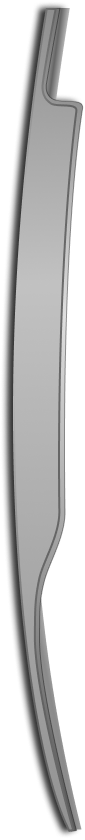
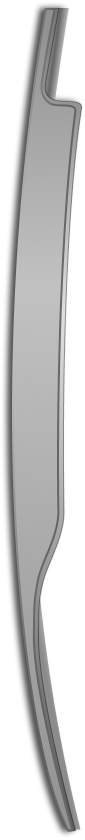
Added remaining carbon themed elements.
Apart from carbon theme completion, theme selection menu now highlights accordingly.

diff --git a/src/xbox_dashboard/components/GuideMenu.js b/src/xbox_dashboard/components/GuideMenu.js
@@ -10,7 +10,8 @@ import useGuidePanelAnimation from '../../custom_hooks/useGuidePanelAnimation';
 import useCurrentTime from '../../custom_hooks/useCurrentTime';
 
 
-import {updateGuideMenuHighlight,
+import {
+    updateGuideMenuHighlight,
 
     navigateGuideMenu,
     navigateGuideMenuLinkStack,
@@ -38,6 +39,11 @@ import {updateGuideMenuHighlight,
     updateShowThemeSelect,
     selectShowThemeSelect,
     updateSelectedTheme,
+    selectThemeSelection,
+    navigateThemeSelectIndex,
+    selectThemeIndex,
+    updateThemeSelectHighlight,
+    selectThemeHighlightState,
     }
 from '../menuSlice';
 
@@ -80,6 +86,11 @@ const GuideMenu = (props) => {
     const currentSongTitle = useSelector(selectCurrentSong);
     const currentSongIndex = useSelector(selectSongIndex);
     const musicListSizeMax = useSelector(selectMusiclistSize);
+
+
+    const selected_theme = useSelector(selectThemeSelection);
+    const themeSelectIndex = useSelector(selectThemeIndex);
+    const isThemeSelectHighlightActive = useSelector(selectThemeHighlightState);
 
 
     const utilitySfxSprite = {
@@ -180,23 +191,23 @@ const GuideMenu = (props) => {
         <>
         {/* Guide Menu that is opened/closed by home button */}
         <div id={styles['guideMenuPanel']} className={styles.guideMenuContainer} ref={guideMenuRef} >
-            <div  className={styles.guidePanel} ref={guidePanelRef}>
+            <div  className={styles[`${'guidePanel' + selected_theme}`]} ref={guidePanelRef}>
 
                 <div className={styles.backButtonContainer} onClick={()=>{backButtonStateSelection()}}>
                     <p>Back</p>
                     <div className={styles.bControllerImg}></div>
                 </div>
 
-                <div className={styles.nameplateEdge}>
+                <div className={styles[`${'nameplateEdge' + selected_theme}`]}>
                         <div className={styles.guideControllerIndicatorIcon}></div>
                         <p className={styles.guideNameplateTitle}>Epoxi117</p>
                 </div>
-                <div className={styles.guidePanelTopBorder}>
+                <div className={styles[`${'guidePanelTopBorder' + selected_theme}`]}>
                             <div className={styles.guidePanelClockContainer}>
                                 <GuidePanelClock/>
                             </div>
                 </div>
-                <div className={styles.guidePanelBottomBorder}>
+                <div className={styles[`${'guidePanelBottomBorder' + selected_theme}`]}>
                 </div>
                 <div className={styles.guideSettingsView} ref={guideSettingsRef}>
                                 <div className={styles.profileContainer}>
@@ -346,18 +357,17 @@ const GuideMenu = (props) => {
                     <div id={itemSelectStyles["guideSelectTheme"]} className={`${itemSelectStyles.selectItemListContainer}`}>
                         <div id={itemSelectStyles["guideInnerListContainer"]} className={itemSelectStyles.innerListContainer} >
                             <div  className={itemSelectStyles.listItem} onClick={()=>{dispatch(updateSelectedTheme(''));}}
-                            onMouseEnter={()=>{dispatch(navigateGuideMenu(0));}} onMouseLeave={()=>{dispatch(updateGuideMenuHighlight(false))}}>
+                            onMouseEnter={()=>{dispatch(navigateThemeSelectIndex(0)); dispatch(updateThemeSelectHighlight(true))}} onMouseLeave={()=>{dispatch(updateThemeSelectHighlight(false))}}>
                                 <p>
-                                    <span className={`${isGuideMenuHighlightActive && itemSelectStyles.listItemHighlight} ${guideMenuIndex !== 0 ? transitionStyles.makeTransparent : ""}`}></span>
+                                    <span className={`${isThemeSelectHighlightActive && itemSelectStyles.listItemHighlight} ${themeSelectIndex !== 0 ? transitionStyles.makeTransparent : ""}`}></span>
                                     Xbox 360 (Default)
                                 </p>
                                 <div className={itemSelectStyles.listItemBorder}></div>
                             </div>
                             <div className={itemSelectStyles.listItem} onClick={()=>{dispatch(updateSelectedTheme('_Carbon'));}}
-                            onMouseEnter={()=>{dispatch(navigateGuideMenu(1));}} onMouseLeave={()=>{dispatch(updateGuideMenuHighlight(false))}}>
-                                {/* <span className={`${itemSelectStyles.listIcon} ${iconLibrary.download_icon}`}></span> */}
+                            onMouseEnter={()=>{dispatch(navigateThemeSelectIndex(1)); dispatch(updateThemeSelectHighlight(true))}} onMouseLeave={()=>{dispatch(updateThemeSelectHighlight(false))}}>
                                 <p>
-                                    <span className={`${isGuideMenuHighlightActive && itemSelectStyles.listItemHighlight} ${guideMenuIndex !== 1 ? transitionStyles.makeTransparent : ""}`}></span>
+                                    <span className={`${isThemeSelectHighlightActive && itemSelectStyles.listItemHighlight} ${themeSelectIndex !== 1 ? transitionStyles.makeTransparent : ""}`}></span>
                                     Carbon
                                 </p>
                                 <div className={itemSelectStyles.listItemBorder}></div>

diff --git a/src/dashboard_styles/Dashboard.module.css b/src/dashboard_styles/Dashboard.module.css
@@ -519,7 +519,25 @@
     border-radius: 0px 0px 50px 0px; 
     z-index: -1;
     background-image: url("../assets/images/guideline_menu_top_border.png");
+}
 
+.guidePanelTopBorder_Carbon {
+    position: absolute;
+    /* width: calc(130%); */
+    display: inline-block;
+    background-repeat: no-repeat;
+    background-size: 100%;
+    left: -120px;
+    /* background-position: 100% 0%; */
+    height: 100px;
+    /* transform: translateX(-31%); */
+    width: 100%;
+    /* left: 0px; */
+    /* transform: translateX(-50%); */
+    box-shadow: inset 0 -1px 7px 0px black;
+    border-radius: 0px 0px 50px 0px; 
+    z-index: -1;
+    background-image: url("../assets/images/carbon_guideline_menu_top_border.png");
 }
 
 .backButtonContainer {
@@ -568,8 +586,26 @@
 
     z-index: -1;
     background-image: url("../assets/images/guideline_menu_bottom_border.png");
+}
 
+.guidePanelBottomBorder_Carbon {
+    position: absolute;
+    /* width: calc(130%); */
+    display: inline-block;
+    background-repeat: no-repeat;
+    background-size: 100%;
+    left: -65px;
+    /* background-position: 10% 0%; */
+    height: 150px;
+    /* transform: translateX(-31%); */
+    width: 1120px;
+    /* left: calc(-2%); */
+    top: calc(100% - 135px);
+    /* transform: translateX(-50%); */
+    /* box-shadow: inset 0 -1px 7px 0px black; */
 
+    z-index: -1;
+    background-image: url("../assets/images/carbon_guideline_menu_bottom_border.png");
 }
 
 .guidePanel {
@@ -582,6 +618,22 @@
     /* transform: translateX(-100%); */
     z-index: 999;
     background-image: url("../assets/images/guideline_background.png");
+    background-repeat: no-repeat;
+    background-size: contain;
+    background-position-x: 5%;
+    overflow: hidden;
+}
+
+.guidePanel_Carbon {
+    position: relative;
+    width: 1120px;
+    height: inherit;
+    left: -105%;
+    transform: translateX(0%);
+    /* background-color: lightgray; */
+    /* transform: translateX(-100%); */
+    z-index: 999;
+    background-image: url("../assets/images/carbon_guideline_background.png");
     background-repeat: no-repeat;
     background-size: contain;
     background-position-x: 5%;
@@ -601,7 +653,23 @@
     filter: drop-shadow(-1 px 0px 4px #ffffff09);
     /* background-color: red; */
     pointer-events: none;
-    background-image: url("../assets/images/nameplate_edge.png");
+    background-image: url("../assets/images/guide_menu_nameplate.png");
+}
+
+.nameplateEdge_Carbon {
+    position: absolute;
+    display: inline-block;
+    height: calc( 100% + 40px);
+    top: -20px;
+    /* left: 30px; */
+    left: 85%;
+    width: 100px;
+    background-repeat: no-repeat;
+    background-size: contain;
+    filter: drop-shadow(-1 px 0px 4px #ffffff09);
+    /* background-color: red; */
+    pointer-events: none;
+    background-image: url("../assets/images/carbon_guide_menu_nameplate.png");
 }
 
 
@@ -1264,6 +1332,7 @@
     left: calc(100% - 585px);
     top: 70px;
     opacity: 0;
+    display: none;
 
 
     > h3 {

diff --git a/src/xbox_dashboard/menuSlice.js b/src/xbox_dashboard/menuSlice.js
@@ -29,7 +29,9 @@ let initialState = {
 
 
     show_theme_select: false,
+    theme_select_index: null,
     selected_theme: '',
+    theme_select_highlight: false,
 
 };
 
@@ -116,6 +118,12 @@ export const menuSlice = createSlice({
         updateSelectedTheme: (state, action) => {
             state.selected_theme = action.payload;
         },
+        navigateThemeSelectIndex: (state, action) => {
+            state.theme_select_index = action.payload;
+        },
+        updateThemeSelectHighlight: (state, action) => {
+            state.theme_select_highlight = action.payload;
+        }
     }
 });
 
@@ -149,6 +157,8 @@ export const {
 
                updateShowThemeSelect,
                updateSelectedTheme,
+               navigateThemeSelectIndex,
+               updateThemeSelectHighlight
 
             } = menuSlice.actions;
 
@@ -181,6 +191,8 @@ export const selectMusiclistSize = (state) => state.menu.music_list_size;
 
 export const selectShowThemeSelect = (state) => state.menu.show_theme_select;
 export const selectThemeSelection = (state) => state.menu.selected_theme;
+export const selectThemeIndex = (state) => state.menu.theme_select_index;
+export const selectThemeHighlightState = (state) => state.menu.theme_select_highlight;
 
 
 

diff --git a/src/custom_hooks/useGuidePanelAnimation.js b/src/custom_hooks/useGuidePanelAnimation.js
@@ -90,7 +90,7 @@ export default function useGuidePanelAnimation() {
 
         showThemeSelection.current
         .to(guideSettingsRef.current, {opacity: 0, display: "none", duration: 0.1})
-        .to(guideSelectThemeRef.current, {opacity: 1, duration: 0.3})
+        .to(guideSelectThemeRef.current, {opacity: 1, display: "initial", duration: 0.3})
         .pause();
 
 
